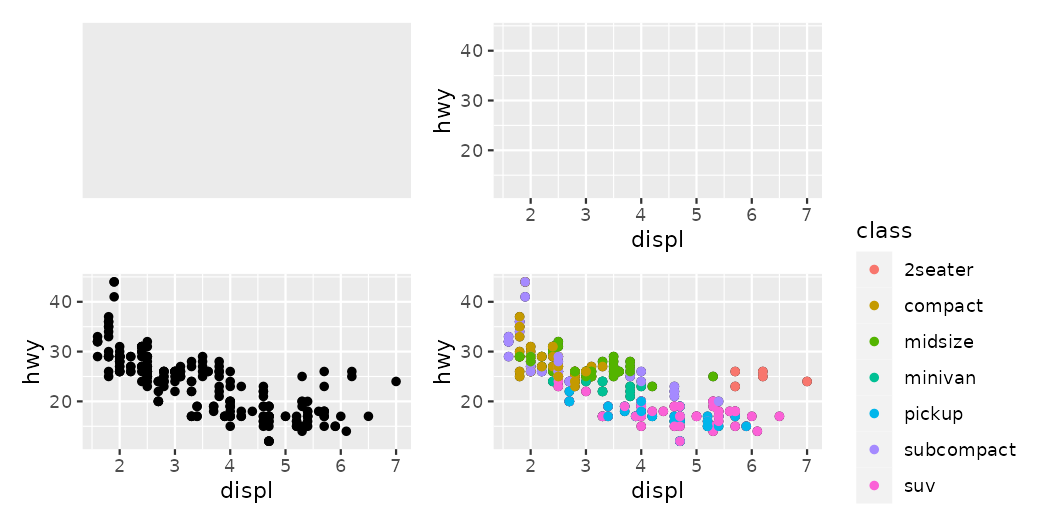
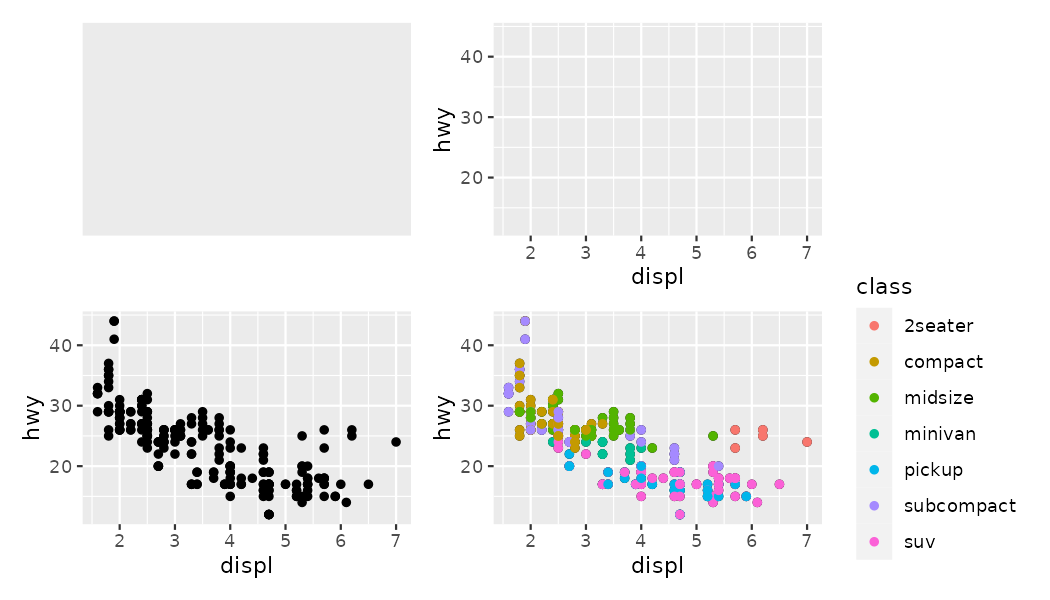
improve abstract

diff --git a/tutorials/01/index.html b/tutorials/01/index.html
@@ -90,7 +90,7 @@ code span.wa { color: #5e5e5e; font-style: italic; } /* Warning */
   <!--radix_placeholder_meta_tags-->
 <title>Data visualization | MSc CSS: 01. Building Graphs Layer by Layer</title>
 
-<meta property="description" itemprop="description" content="Gentle introduction to ggplot2: how to create a plot object, add data,&#10;create a mapping, and add layers."/>
+<meta property="description" itemprop="description" content="This tutorial is a gentle introduction to ggplot2, one of the most successful&#10;software packages for producing statistical graphics, created by Hadley&#10;Wickham based on the &quot;Grammar of Graphs&quot; by Leland Wilkinson. It provides a&#10;simple set of core principles, with carefully chosen defaults, to enable&#10;quick prototyping as well as publication-quality graphics. In what follows,&#10;we will familiarize ourselves with the fundamental concepts and elements of&#10;every ggplot2 graphic: how to create a plot object, add data, create a&#10;mapping to some aesthetics, and add layers of visual marks."/>
 
 <link rel="canonical" href="https://csslab.uc3m.es/dataviz/tutorials/01/"/>
 <link rel="license" href="https://creativecommons.org/licenses/by/4.0/"/>
@@ -103,22 +103,22 @@ code span.wa { color: #5e5e5e; font-style: italic; } /* Warning */
 <!--  https://developers.facebook.com/docs/sharing/webmasters#markup -->
 <meta property="og:title" content="Data visualization | MSc CSS: 01. Building Graphs Layer by Layer"/>
 <meta property="og:type" content="article"/>
-<meta property="og:description" content="Gentle introduction to ggplot2: how to create a plot object, add data,&#10;create a mapping, and add layers."/>
+<meta property="og:description" content="This tutorial is a gentle introduction to ggplot2, one of the most successful&#10;software packages for producing statistical graphics, created by Hadley&#10;Wickham based on the &quot;Grammar of Graphs&quot; by Leland Wilkinson. It provides a&#10;simple set of core principles, with carefully chosen defaults, to enable&#10;quick prototyping as well as publication-quality graphics. In what follows,&#10;we will familiarize ourselves with the fundamental concepts and elements of&#10;every ggplot2 graphic: how to create a plot object, add data, create a&#10;mapping to some aesthetics, and add layers of visual marks."/>
 <meta property="og:url" content="https://csslab.uc3m.es/dataviz/tutorials/01/"/>
 <meta property="og:image" content="https://csslab.uc3m.es/dataviz/tutorials/01/preview.png"/>
 <meta property="og:image:width" content="1050"/>
-<meta property="og:image:height" content="525"/>
+<meta property="og:image:height" content="600"/>
 <meta property="og:locale" content="en_US"/>
 <meta property="og:site_name" content="Data visualization | MSc CSS"/>
 
 <!--  https://dev.twitter.com/cards/types/summary -->
 <meta property="twitter:card" content="summary_large_image"/>
 <meta property="twitter:title" content="Data visualization | MSc CSS: 01. Building Graphs Layer by Layer"/>
-<meta property="twitter:description" content="Gentle introduction to ggplot2: how to create a plot object, add data,&#10;create a mapping, and add layers."/>
+<meta property="twitter:description" content="This tutorial is a gentle introduction to ggplot2, one of the most successful&#10;software packages for producing statistical graphics, created by Hadley&#10;Wickham based on the &quot;Grammar of Graphs&quot; by Leland Wilkinson. It provides a&#10;simple set of core principles, with carefully chosen defaults, to enable&#10;quick prototyping as well as publication-quality graphics. In what follows,&#10;we will familiarize ourselves with the fundamental concepts and elements of&#10;every ggplot2 graphic: how to create a plot object, add data, create a&#10;mapping to some aesthetics, and add layers of visual marks."/>
 <meta property="twitter:url" content="https://csslab.uc3m.es/dataviz/tutorials/01/"/>
 <meta property="twitter:image" content="https://csslab.uc3m.es/dataviz/tutorials/01/preview.png"/>
 <meta property="twitter:image:width" content="1050"/>
-<meta property="twitter:image:height" content="525"/>
+<meta property="twitter:image:height" content="600"/>
 
 <!--  https://scholar.google.com/intl/en/scholar/inclusion.html#indexing -->
 <meta name="citation_title" content="Data visualization | MSc CSS: 01. Building Graphs Layer by Layer"/>
@@ -132,7 +132,7 @@ code span.wa { color: #5e5e5e; font-style: italic; } /* Warning */
   <!--radix_placeholder_rmarkdown_metadata-->
 
 <script type="text/json" id="radix-rmarkdown-metadata">
-{"type":"list","attributes":{"names":{"type":"character","attributes":{},"value":["creative_commons","title","description","categories","author","date","output","preview","citation_url","canonical_url"]}},"value":[{"type":"character","attributes":{},"value":["CC BY"]},{"type":"character","attributes":{},"value":["01. Building Graphs Layer by Layer"]},{"type":"character","attributes":{},"value":["Gentle introduction to ggplot2: how to create a plot object, add data,\ncreate a mapping, and add layers."]},{"type":"character","attributes":{},"value":["Chapter 2"]},{"type":"list","attributes":{},"value":[{"type":"list","attributes":{"names":{"type":"character","attributes":{},"value":["name","affiliation","orcid_id"]}},"value":[{"type":"character","attributes":{},"value":["Iñaki Ucar"]},{"type":"character","attributes":{},"value":["Department of Statistics"]},{"type":"character","attributes":{},"value":["0000-0001-6403-5550"]}]}]},{"type":"character","attributes":{},"value":["2022-10-05"]},{"type":"list","attributes":{"names":{"type":"character","attributes":{},"value":["distill::distill_article"]}},"value":[{"type":"list","attributes":{"names":{"type":"character","attributes":{},"value":["self_contained","toc"]}},"value":[{"type":"logical","attributes":{},"value":[false]},{"type":"logical","attributes":{},"value":[true]}]}]},{"type":"character","attributes":{},"value":["preview.png"]},{"type":"character","attributes":{},"value":["https://csslab.uc3m.es/dataviz/tutorials/01/"]},{"type":"character","attributes":{},"value":["https://csslab.uc3m.es/dataviz/tutorials/01/"]}]}
+{"type":"list","attributes":{"names":{"type":"character","attributes":{},"value":["creative_commons","title","description","categories","author","date","output","preview","citation_url","canonical_url"]}},"value":[{"type":"character","attributes":{},"value":["CC BY"]},{"type":"character","attributes":{},"value":["01. Building Graphs Layer by Layer"]},{"type":"character","attributes":{},"value":["This tutorial is a gentle introduction to ggplot2, one of the most successful\nsoftware packages for producing statistical graphics, created by Hadley\nWickham based on the \"Grammar of Graphs\" by Leland Wilkinson. It provides a\nsimple set of core principles, with carefully chosen defaults, to enable\nquick prototyping as well as publication-quality graphics. In what follows,\nwe will familiarize ourselves with the fundamental concepts and elements of\nevery ggplot2 graphic: how to create a plot object, add data, create a\nmapping to some aesthetics, and add layers of visual marks."]},{"type":"character","attributes":{},"value":["Chapter 2"]},{"type":"list","attributes":{},"value":[{"type":"list","attributes":{"names":{"type":"character","attributes":{},"value":["name","affiliation","orcid_id"]}},"value":[{"type":"character","attributes":{},"value":["Iñaki Ucar"]},{"type":"character","attributes":{},"value":["Department of Statistics"]},{"type":"character","attributes":{},"value":["0000-0001-6403-5550"]}]}]},{"type":"character","attributes":{},"value":["2022-10-05"]},{"type":"list","attributes":{"names":{"type":"character","attributes":{},"value":["distill::distill_article"]}},"value":[{"type":"list","attributes":{"names":{"type":"character","attributes":{},"value":["self_contained","toc"]}},"value":[{"type":"logical","attributes":{},"value":[false]},{"type":"logical","attributes":{},"value":[true]}]}]},{"type":"character","attributes":{},"value":["preview.png"]},{"type":"character","attributes":{},"value":["https://csslab.uc3m.es/dataviz/tutorials/01/"]},{"type":"character","attributes":{},"value":["https://csslab.uc3m.es/dataviz/tutorials/01/"]}]}
 </script>
 <!--/radix_placeholder_rmarkdown_metadata-->
   
@@ -2449,7 +2449,7 @@ d-appendix d-footnote-list a.footnote-backlink {
 <!--radix_placeholder_front_matter-->
 
 <script id="distill-front-matter" type="text/json">
-{"title":"01. Building Graphs Layer by Layer","description":"Gentle introduction to ggplot2: how to create a plot object, add data,\ncreate a mapping, and add layers.","authors":[{"author":"Iñaki Ucar","authorURL":"#","affiliation":"Department of Statistics","affiliationURL":"#","orcidID":"0000-0001-6403-5550"}],"publishedDate":"2022-10-05T00:00:00.000+02:00","citationText":"Ucar, 2022"}
+{"title":"01. Building Graphs Layer by Layer","description":"This tutorial is a gentle introduction to ggplot2, one of the most successful\nsoftware packages for producing statistical graphics, created by Hadley\nWickham based on the \"Grammar of Graphs\" by Leland Wilkinson. It provides a\nsimple set of core principles, with carefully chosen defaults, to enable\nquick prototyping as well as publication-quality graphics. In what follows,\nwe will familiarize ourselves with the fundamental concepts and elements of\nevery ggplot2 graphic: how to create a plot object, add data, create a\nmapping to some aesthetics, and add layers of visual marks.","authors":[{"author":"Iñaki Ucar","authorURL":"#","affiliation":"Department of Statistics","affiliationURL":"#","orcidID":"0000-0001-6403-5550"}],"publishedDate":"2022-10-05T00:00:00.000+02:00","citationText":"Ucar, 2022"}
 </script>
 
 <!--/radix_placeholder_front_matter-->
@@ -2485,8 +2485,14 @@ d-appendix d-footnote-list a.footnote-backlink {
   <a href="../../tutorials.html#category:Chapter_2" class="dt-tag">Chapter 2</a>
 </div>
 <!--/radix_placeholder_categories-->
-<p><p>Gentle introduction to ggplot2: how to create a plot object, add data,
-create a mapping, and add layers.</p></p>
+<p><p>This tutorial is a gentle introduction to ggplot2, one of the most successful
+software packages for producing statistical graphics, created by Hadley
+Wickham based on the “Grammar of Graphs” by Leland Wilkinson. It provides a
+simple set of core principles, with carefully chosen defaults, to enable
+quick prototyping as well as publication-quality graphics. In what follows,
+we will familiarize ourselves with the fundamental concepts and elements of
+every ggplot2 graphic: how to create a plot object, add data, create a
+mapping to some aesthetics, and add layers of visual marks.</p></p>
 </div>
 
 <div class="d-byline">
@@ -2524,7 +2530,7 @@ create a mapping, and add layers.</p></p>
 </div>
 <p>Source: <a href="https://github.com/IBiDat/dataviz/blob/main/_tutorials/01/01.Rmd"><code>_tutorials/01/01.Rmd</code></a></p>
 <h2 id="preliminaries">Preliminaries</h2>
-<p>The goal of this tutorial is to provide a gentle introduction to ggplot2. We will learn to create and manipulate a ggplot object, add data, create a mapping of data to visual channels, and add layers of visual marks. The best way to follow this tutorial is by using the <a href="https://www.rstudio.com/">RStudio</a> IDE, so ensure that you have it installed in your computer (along with R).</p>
+<p>The best way to follow this tutorial is by using the <a href="https://www.rstudio.com/">RStudio</a> IDE, so ensure that you have it installed in your computer (along with R).</p>
 <h3 id="workflow">Workflow</h3>
 <p>To start with, let’s create a <strong>new project</strong> by clicking on <code>File &gt; New Project...</code>. Follow the steps to give it a sensible name (e.g., “dataviz”) and place it under a proper path in your computer. This creates a new folder where you can save all your files (scripts, plots, data…) related to this course, preferably organized following some logic (e.g., all scripts under a <code>scripts</code> subdirectory, etc.). Now, whenever you return to your project (if you close and open RStudio again, your last project is automatically opened; otherwise, click <code>File &gt; Recent Projects &gt; ...</code>), RStudio automatically sets the working directory (both of the file manager as well as the R session) to the project folder.</p>
 <p>Once you open a new script (<code>File &gt; New File &gt; R Script</code>), the interface is divided in four sections:</p>

diff --git a/_tutorials/01/01.html b/_tutorials/01/01.html
@@ -90,7 +90,7 @@ code span.wa { color: #5e5e5e; font-style: italic; } /* Warning */
   <!--radix_placeholder_meta_tags-->
   <title>01. Building Graphs Layer by Layer</title>
 
-  <meta property="description" itemprop="description" content="Gentle introduction to ggplot2: how to create a plot object, add data,&#10;create a mapping, and add layers."/>
+  <meta property="description" itemprop="description" content="This tutorial is a gentle introduction to ggplot2, one of the most successful&#10;software packages for producing statistical graphics, created by Hadley&#10;Wickham based on the &quot;Grammar of Graphs&quot; by Leland Wilkinson. It provides a&#10;simple set of core principles, with carefully chosen defaults, to enable&#10;quick prototyping as well as publication-quality graphics. In what follows,&#10;we will familiarize ourselves with the fundamental concepts and elements of&#10;every ggplot2 graphic: how to create a plot object, add data, create a&#10;mapping to some aesthetics, and add layers of visual marks."/>
 
 
   <!--  https://schema.org/Article -->
@@ -101,19 +101,19 @@ code span.wa { color: #5e5e5e; font-style: italic; } /* Warning */
   <!--  https://developers.facebook.com/docs/sharing/webmasters#markup -->
   <meta property="og:title" content="01. Building Graphs Layer by Layer"/>
   <meta property="og:type" content="article"/>
-  <meta property="og:description" content="Gentle introduction to ggplot2: how to create a plot object, add data,&#10;create a mapping, and add layers."/>
+  <meta property="og:description" content="This tutorial is a gentle introduction to ggplot2, one of the most successful&#10;software packages for producing statistical graphics, created by Hadley&#10;Wickham based on the &quot;Grammar of Graphs&quot; by Leland Wilkinson. It provides a&#10;simple set of core principles, with carefully chosen defaults, to enable&#10;quick prototyping as well as publication-quality graphics. In what follows,&#10;we will familiarize ourselves with the fundamental concepts and elements of&#10;every ggplot2 graphic: how to create a plot object, add data, create a&#10;mapping to some aesthetics, and add layers of visual marks."/>
   <meta property="og:locale" content="en_US"/>
 
   <!--  https://dev.twitter.com/cards/types/summary -->
   <meta property="twitter:card" content="summary"/>
   <meta property="twitter:title" content="01. Building Graphs Layer by Layer"/>
-  <meta property="twitter:description" content="Gentle introduction to ggplot2: how to create a plot object, add data,&#10;create a mapping, and add layers."/>
+  <meta property="twitter:description" content="This tutorial is a gentle introduction to ggplot2, one of the most successful&#10;software packages for producing statistical graphics, created by Hadley&#10;Wickham based on the &quot;Grammar of Graphs&quot; by Leland Wilkinson. It provides a&#10;simple set of core principles, with carefully chosen defaults, to enable&#10;quick prototyping as well as publication-quality graphics. In what follows,&#10;we will familiarize ourselves with the fundamental concepts and elements of&#10;every ggplot2 graphic: how to create a plot object, add data, create a&#10;mapping to some aesthetics, and add layers of visual marks."/>
 
   <!--/radix_placeholder_meta_tags-->
   <!--radix_placeholder_rmarkdown_metadata-->
 
   <script type="text/json" id="radix-rmarkdown-metadata">
-  {"type":"list","attributes":{"names":{"type":"character","attributes":{},"value":["title","description","categories","author","date","output","preview"]}},"value":[{"type":"character","attributes":{},"value":["01. Building Graphs Layer by Layer"]},{"type":"character","attributes":{},"value":["Gentle introduction to ggplot2: how to create a plot object, add data,\ncreate a mapping, and add layers.\n"]},{"type":"character","attributes":{},"value":["Chapter 2"]},{"type":"list","attributes":{},"value":[{"type":"list","attributes":{"names":{"type":"character","attributes":{},"value":["name","affiliation","orcid_id"]}},"value":[{"type":"character","attributes":{},"value":["Iñaki Ucar"]},{"type":"character","attributes":{},"value":["Department of Statistics"]},{"type":"character","attributes":{},"value":["0000-0001-6403-5550"]}]}]},{"type":"character","attributes":{},"value":["2022-10-05"]},{"type":"list","attributes":{"names":{"type":"character","attributes":{},"value":["distill::distill_article"]}},"value":[{"type":"list","attributes":{"names":{"type":"character","attributes":{},"value":["self_contained","toc"]}},"value":[{"type":"logical","attributes":{},"value":[false]},{"type":"logical","attributes":{},"value":[true]}]}]},{"type":"character","attributes":{},"value":["preview.png"]}]}
+  {"type":"list","attributes":{"names":{"type":"character","attributes":{},"value":["title","description","categories","author","date","output","preview"]}},"value":[{"type":"character","attributes":{},"value":["01. Building Graphs Layer by Layer"]},{"type":"character","attributes":{},"value":["This tutorial is a gentle introduction to ggplot2, one of the most successful\nsoftware packages for producing statistical graphics, created by Hadley\nWickham based on the \"Grammar of Graphs\" by Leland Wilkinson. It provides a\nsimple set of core principles, with carefully chosen defaults, to enable\nquick prototyping as well as publication-quality graphics. In what follows,\nwe will familiarize ourselves with the fundamental concepts and elements of\nevery ggplot2 graphic: how to create a plot object, add data, create a\nmapping to some aesthetics, and add layers of visual marks.\n"]},{"type":"character","attributes":{},"value":["Chapter 2"]},{"type":"list","attributes":{},"value":[{"type":"list","attributes":{"names":{"type":"character","attributes":{},"value":["name","affiliation","orcid_id"]}},"value":[{"type":"character","attributes":{},"value":["Iñaki Ucar"]},{"type":"character","attributes":{},"value":["Department of Statistics"]},{"type":"character","attributes":{},"value":["0000-0001-6403-5550"]}]}]},{"type":"character","attributes":{},"value":["2022-10-05"]},{"type":"list","attributes":{"names":{"type":"character","attributes":{},"value":["distill::distill_article"]}},"value":[{"type":"list","attributes":{"names":{"type":"character","attributes":{},"value":["self_contained","toc"]}},"value":[{"type":"logical","attributes":{},"value":[false]},{"type":"logical","attributes":{},"value":[true]}]}]},{"type":"character","attributes":{},"value":["preview.png"]}]}
   </script>
   <!--/radix_placeholder_rmarkdown_metadata-->
   
@@ -1498,7 +1498,7 @@ code span.wa { color: #5e5e5e; font-style: italic; } /* Warning */
 <!--radix_placeholder_front_matter-->
 
 <script id="distill-front-matter" type="text/json">
-{"title":"01. Building Graphs Layer by Layer","description":"Gentle introduction to ggplot2: how to create a plot object, add data,\ncreate a mapping, and add layers.","authors":[{"author":"Iñaki Ucar","authorURL":"#","affiliation":"Department of Statistics","affiliationURL":"#","orcidID":"0000-0001-6403-5550"}],"publishedDate":"2022-10-05T00:00:00.000+02:00","citationText":"Ucar, 2022"}
+{"title":"01. Building Graphs Layer by Layer","description":"This tutorial is a gentle introduction to ggplot2, one of the most successful\nsoftware packages for producing statistical graphics, created by Hadley\nWickham based on the \"Grammar of Graphs\" by Leland Wilkinson. It provides a\nsimple set of core principles, with carefully chosen defaults, to enable\nquick prototyping as well as publication-quality graphics. In what follows,\nwe will familiarize ourselves with the fundamental concepts and elements of\nevery ggplot2 graphic: how to create a plot object, add data, create a\nmapping to some aesthetics, and add layers of visual marks.","authors":[{"author":"Iñaki Ucar","authorURL":"#","affiliation":"Department of Statistics","affiliationURL":"#","orcidID":"0000-0001-6403-5550"}],"publishedDate":"2022-10-05T00:00:00.000+02:00","citationText":"Ucar, 2022"}
 </script>
 
 <!--/radix_placeholder_front_matter-->
@@ -1514,8 +1514,14 @@ code span.wa { color: #5e5e5e; font-style: italic; } /* Warning */
 <div class="dt-tag">Chapter 2</div>
 </div>
 <!--/radix_placeholder_categories-->
-<p><p>Gentle introduction to ggplot2: how to create a plot object, add data,
-create a mapping, and add layers.</p></p>
+<p><p>This tutorial is a gentle introduction to ggplot2, one of the most successful
+software packages for producing statistical graphics, created by Hadley
+Wickham based on the “Grammar of Graphs” by Leland Wilkinson. It provides a
+simple set of core principles, with carefully chosen defaults, to enable
+quick prototyping as well as publication-quality graphics. In what follows,
+we will familiarize ourselves with the fundamental concepts and elements of
+every ggplot2 graphic: how to create a plot object, add data, create a
+mapping to some aesthetics, and add layers of visual marks.</p></p>
 </div>
 
 <div class="d-byline">
@@ -1553,7 +1559,7 @@ create a mapping, and add layers.</p></p>
 </div>
 <p>Source: <a href="https://github.com/IBiDat/dataviz/blob/main/_tutorials/01/01.Rmd"><code>_tutorials/01/01.Rmd</code></a></p>
 <h2 id="preliminaries">Preliminaries</h2>
-<p>The goal of this tutorial is to provide a gentle introduction to ggplot2. We will learn to create and manipulate a ggplot object, add data, create a mapping of data to visual channels, and add layers of visual marks. The best way to follow this tutorial is by using the <a href="https://www.rstudio.com/">RStudio</a> IDE, so ensure that you have it installed in your computer (along with R).</p>
+<p>The best way to follow this tutorial is by using the <a href="https://www.rstudio.com/">RStudio</a> IDE, so ensure that you have it installed in your computer (along with R).</p>
 <h3 id="workflow">Workflow</h3>
 <p>To start with, let’s create a <strong>new project</strong> by clicking on <code>File &gt; New Project...</code>. Follow the steps to give it a sensible name (e.g., “dataviz”) and place it under a proper path in your computer. This creates a new folder where you can save all your files (scripts, plots, data…) related to this course, preferably organized following some logic (e.g., all scripts under a <code>scripts</code> subdirectory, etc.). Now, whenever you return to your project (if you close and open RStudio again, your last project is automatically opened; otherwise, click <code>File &gt; Recent Projects &gt; ...</code>), RStudio automatically sets the working directory (both of the file manager as well as the R session) to the project folder.</p>
 <p>Once you open a new script (<code>File &gt; New File &gt; R Script</code>), the interface is divided in four sections:</p>

diff --git a/tutorials.html b/tutorials.html
@@ -2598,8 +2598,14 @@ function init_posts_list() {
 <div class="dt-tags">
 <div class="dt-tag">Chapter 2</div>
 </div>
-<p>Gentle introduction to ggplot2: how to create a plot object, add data,
-create a mapping, and add layers.</p>
+<p>This tutorial is a gentle introduction to ggplot2, one of the most successful
+software packages for producing statistical graphics, created by Hadley
+Wickham based on the "Grammar of Graphs" by Leland Wilkinson. It provides a
+simple set of core principles, with carefully chosen defaults, to enable
+quick prototyping as well as publication-quality graphics. In what follows,
+we will familiarize ourselves with the fundamental concepts and elements of
+every ggplot2 graphic: how to create a plot object, add data, create a
+mapping to some aesthetics, and add layers of visual marks.</p>
 </div>
 </a>
 </div>
